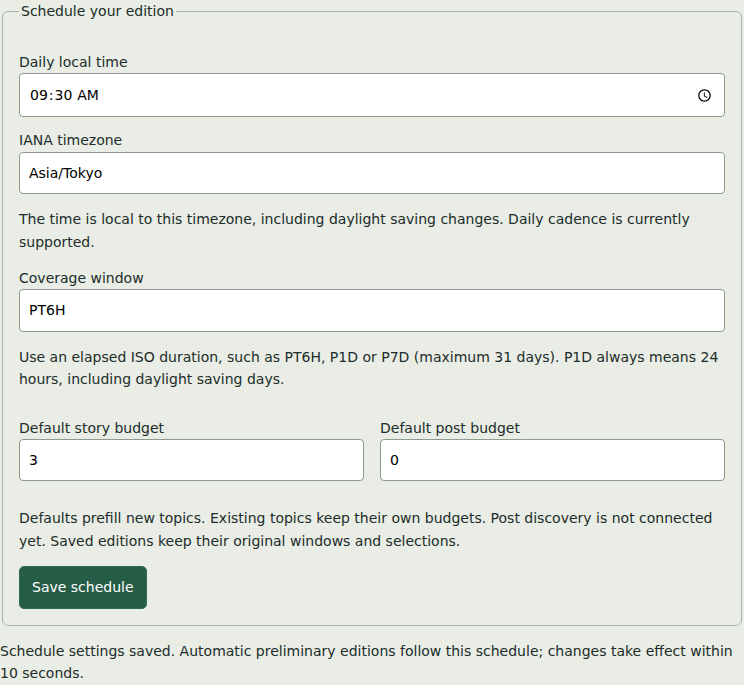
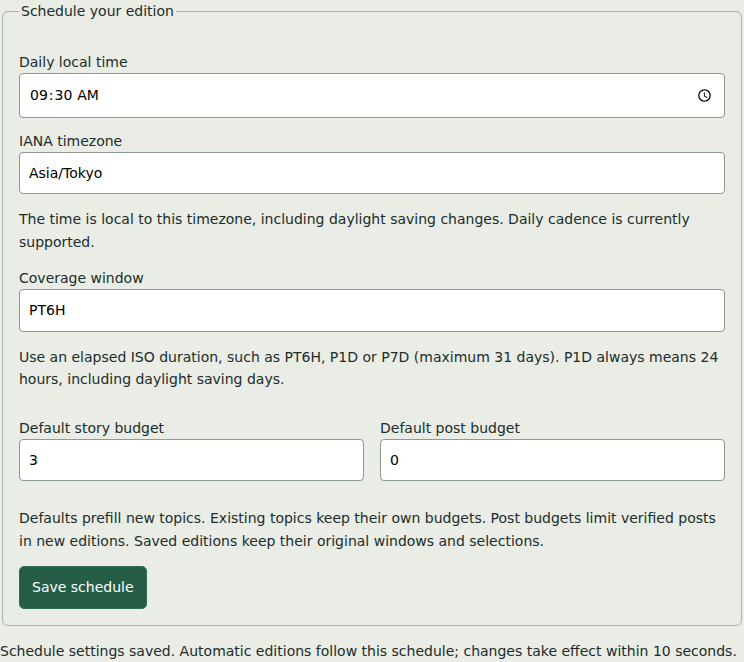
Restore owner schedule and prevent live schedule smoke writes

Changed region(s): [[0.0, 0.0604, 0.9892, 0.997], [0.0309, 0.0, 0.2164, 0.0302], [0.9892, 0.9063, 1.0, 0.9366]]

diff --git a/scripts/smoke-schedule.ts b/scripts/smoke-schedule.ts
@@ -1,14 +1,39 @@
 import assert from 'node:assert/strict';
 
-import { profileSettingsSchema } from '@digest/contracts';
+import { profileSettingsSchema, scheduleSchema } from '@digest/contracts';
 import { chromium } from 'playwright';
 
-import { protectSchedule } from './lib/schedule-recovery';
+import { validateSchedule } from '../apps/api/src/modules/profiles/domain/schedule';
+
 const base = 'http://localhost:8000';
 async function smoke() {
   const browser = await chromium.launch();
   const context = await browser.newContext();
-  const restoreSchedule = await protectSchedule(base);
+  const original = profileSettingsSchema.parse(
+    await (await context.request.get(`${base}/api/profile`)).json(),
+  );
+  const profile = structuredClone(original);
+  // All browser profile reads/writes are replayed in memory, including reloads.
+  await context.route('**/api/profile', (route) =>
+    route.fulfill({ json: profile }),
+  );
+  await context.route('**/api/profile/schedule', async (route) => {
+    const result = scheduleSchema.safeParse(route.request().postDataJSON());
+    if (!result.success) {
+      await route.fulfill({
+        status: 400,
+        json: { message: result.error.issues[0].message },
+      });
+      return;
+    }
+    const valid = validateSchedule(result.data);
+    if (!valid.ok) {
+      await route.fulfill({ status: 400, json: { message: valid.error } });
+      return;
+    }
+    profile.schedule = result.data;
+    await route.fulfill({ json: profile });
+  });
   const topics = await (await context.request.get(`${base}/api/topics`)).json();
   const latest = await (
     await context.request.get(`${base}/api/digest-previews/latest`)
@@ -40,9 +65,7 @@ async function smoke() {
         .getByRole('status')
         .filter({ hasText: 'Schedule settings saved.' })
         .waitFor();
-      const saved = profileSettingsSchema.parse(
-        await (await context.request.get(`${base}/api/profile`)).json(),
-      );
+      const saved = structuredClone(profile);
       assert.deepEqual(saved.schedule, {
         cadence: '30 9 * * *',
         timezone: 'Asia/Tokyo',
@@ -50,28 +73,6 @@ async function smoke() {
         storyBudget: 3,
         postBudget: 0,
       });
-      for (const override of [
-        { timezone: 'Mars/Olympus' },
-        { cadence: '* * * * *' },
-        { coverageWindow: 'P32D' },
-        { coverageWindow: 'P0D' },
-        { storyBudget: 21 },
-        { postBudget: -1 },
-        { extra: true },
-      ]) {
-        assert.equal(
-          (
-            await context.request.put(`${base}/api/profile/schedule`, {
-              data: { ...saved.schedule, ...override },
-            })
-          ).status(),
-          400,
-        );
-        assert.deepEqual(
-          await (await context.request.get(`${base}/api/profile`)).json(),
-          saved,
-        );
-      }
       await page.reload();
       await page.getByText('Schedule settings', { exact: true }).click();
       assert.equal(
@@ -141,10 +142,14 @@ async function smoke() {
         latest,
       );
     console.log(
-      'Schedule desktop/mobile: persistence, validation atomicity, timezone errors, new-topic defaults and immutable history passed',
+      'Schedule desktop/mobile: in-memory save/reload, timezone errors, defaults and immutable history passed; live profile unchanged',
     );
   } finally {
-    await restoreSchedule();
+    assert.deepEqual(
+      await (await context.request.get(`${base}/api/profile`)).json(),
+      original,
+      'Browser replay must never change the live profile',
+    );
     await browser.close();
   }
 }

diff --git a/apps/api/scripts/smoke-scheduled-digests.ts b/apps/api/scripts/smoke-scheduled-digests.ts
@@ -1,96 +1,5 @@
-import assert from 'node:assert/strict';
-
-import { profileSettingsSchema } from '@digest/contracts';
-import { Queue } from 'bullmq';
-
-import { protectSchedule } from '../../../scripts/lib/schedule-recovery';
-import { database } from '../src/libs/db/connections';
-const base = 'http://localhost:8000';
-async function smoke() {
-  const queue = new Queue('digest-generation', {
-    connection: { host: '127.0.0.1', port: 6379 },
-  });
-  const db = database();
-  const profile = profileSettingsSchema.parse(
-    await (await fetch(`${base}/api/profile`)).json(),
-  );
-  const slot = new Date(Math.ceil((Date.now() + 20000) / 60000) * 60000);
-  const cadence = `${slot.getUTCMinutes()} ${slot.getUTCHours()} * * *`;
-  async function save(schedule: typeof profile.schedule) {
-    assert.equal(
-      (
-        await fetch(`${base}/api/profile/schedule`, {
-          method: 'PUT',
-          headers: { 'Content-Type': 'application/json' },
-          body: JSON.stringify(schedule),
-        })
-      ).status,
-      200,
-    );
-  }
-  const restoreSchedule = await protectSchedule(base);
-  try {
-    await save({
-      ...profile.schedule,
-      cadence,
-      timezone: 'UTC',
-      coverageWindow: 'PT6H',
-    });
-    console.log('Waiting for actual scheduled slot', slot.toISOString());
-    let edition;
-    const deadline = slot.getTime() + 30000;
-    while (Date.now() < deadline) {
-      const result = await db.query(
-        'SELECT snapshot FROM digest_previews WHERE scheduled_key=$1',
-        [`${profile.id}:${slot.getTime()}`],
-      );
-      if (result.rows[0]) {
-        edition = result.rows[0].snapshot;
-        break;
-      }
-      await new Promise((resolve) => setTimeout(resolve, 1000));
-    }
-    assert.ok(
-      edition,
-      'Worker must generate the scheduled edition without a manual request',
-    );
-    assert.equal(edition.windowEnd, slot.toISOString());
-    assert.equal(
-      edition.windowStart,
-      new Date(slot.getTime() - 21600000).toISOString(),
-    );
-    assert.ok(
-      edition.topics.some(
-        (topic: { candidateCount: number }) => topic.candidateCount > 0,
-      ),
-    );
-    const jobs = await queue.getCompleted();
-    assert.ok(
-      jobs.some((job) => job.returnvalue?.editionId === edition.id),
-      'Queue retains successful run',
-    );
-    const failed = await queue.getFailed();
-    assert.equal(failed.length, 0);
-    console.log(
-      'Scheduled edition stored from real content; exact 6h slot window and completed queue run verified',
-      edition.id,
-    );
-  } finally {
-    await restoreSchedule();
-    // Ensure the restored schedule reaches Redis before exiting.
-    for (let attempt = 0; attempt < 20; attempt++) {
-      const scheduler = await queue.getJobScheduler(`profile-${profile.id}`);
-      if (
-        scheduler?.pattern === profile.schedule.cadence &&
-        scheduler?.tz === profile.schedule.timezone
-      )
-        break;
-      if (attempt === 19)
-        throw new Error('Original scheduler was not restored');
-      await new Promise((resolve) => setTimeout(resolve, 1000));
-    }
-    await queue.close();
-    await db.end();
-  }
-}
-void smoke();
+// Retired: this probe changed the live schedule and could leave it overwritten.
+// The disposable-service suite covers scheduling and publication without live writes.
+throw new Error(
+  'Live schedule probes are disabled. Run pnpm test for isolated scheduling coverage.',
+);

diff --git a/README.md b/README.md
@@ -128,14 +128,11 @@ Local snapshot/API verification (uses stored real content, no external calls):
 pnpm exec tsx apps/api/scripts/smoke-previews.ts
 ```
 
-Verify automatic generation using stored real content (temporarily schedules the
-next UTC minute with 6h coverage, then restores the original schedule):
-
-```sh
-pnpm exec tsx apps/api/scripts/smoke-scheduled-digests.ts
-```
-
-Run schedule-changing smoke scripts sequentially. The worker must be running.
+Verify scheduling and publication with `pnpm test` (disposable Postgres/Redis,
+no live inference). The former live `smoke-scheduled-digests.ts` probe is disabled.
+`pnpm exec tsx scripts/smoke-schedule.ts` checks desktop/mobile schedule forms
+with intercepted profile requests and in-memory settings, and verifies the live
+profile remains unchanged. API validation is covered by the isolated tests.
 
 Workspace formatting and linting:
 
@@ -269,11 +266,8 @@ fallback reason. Unknown engagement and media contents are never inferred.
 Read-only UI verification can use `POST_EDITORIAL_REPLAY=1` with `smoke-posts.ts`;
 its context is explicitly synthetic and it publishes no edition.
 
-Schedule-changing smoke checks save the original profile schedule exclusively to
-`~/.local/state/news-digest/schedule-recovery.json` before editing it. Normal exit,
-SIGINT and SIGTERM restore and verify the saved schedule. If the VM stops or the
-process receives SIGKILL, the record remains and another probe refuses to start.
-Run `pnpm exec tsx scripts/recover-schedule.ts` once the API is healthy to restore
-that record; failed restoration retains it. Do not run schedule probes concurrently
-or edit the schedule while a probe is active. These probes can publish editions;
-use the isolated suite for routine verification rather than the live scheduler probe.
+Legacy recovery records may remain at
+`~/.local/state/news-digest/schedule-recovery.json`. Inspect any record before
+using `scripts/recover-schedule.ts`: it restores the saved value, which may
+predate the owner's corrected schedule. Routine verification never uses this
+recovery path or writes the live schedule.

diff --git a/PROGRESS.md b/PROGRESS.md
@@ -167,3 +167,13 @@ Earlier iterations 141–142: [archive](docs/progress-archive/2026-11-02-iterati
 - Restarted API/worker; `/healthz` healthy; 32 sources, 1,451 stored source items, no source errors, zero failed digest jobs. Latest stored edition remains four topics.
 - README/TASKS updated; archived iterations 141–142 to keep PROGRESS small. No source/UI changes; docs/SOURCES unchanged.
 - Next: live/cache-backed provider latency evidence within verification budget; item 7 remains open. Avoid treating fake timings as live targets; Reddit follows item 7.
+
+## 2026-11-02: iteration 166 — restore owner schedule and stop live smoke writes
+
+- Started clean on main; API/worker/health healthy, 32 sources without errors, no failed digest jobs; two historical ingestion failures retained.
+- Triage found the reported wrong live schedule still active: 20:40 UTC/PT6H. Restored 07:00 America/Los_Angeles/P1D through API, preserving both budgets at five; Redis next slot now 2026-11-02T15:00Z.
+- Schedule UI smoke now intercepts profile reads/writes in memory, checks reload/defaults/timezone errors, and asserts live profile unchanged. Updated desktop/mobile screenshots are replay settings, not live schedule evidence.
+- Disabled the obsolete live scheduler probe with an explicit failure directing callers to isolated scheduling tests. Legacy recovery remains manual only; README explains the distinction.
+- Initial replay needed domain timezone validation; corrected. `pnpm exec tsx scripts/smoke-schedule.ts` passed desktop/mobile with unchanged live profile.
+- `pnpm format`, `pnpm lint:fix`, `pnpm check` and `pnpm build` pass (164 tests); services restarted and health/schedule/source/edition endpoints checked.
+- No live inference calls/spend or source changes; docs/SOURCES unchanged. Item 7 live latency still unverified; next use budget-safe evidence before Reddit.

diff --git a/TASKS.md b/TASKS.md
@@ -21,7 +21,7 @@ Fix regressions, broken services and stalled sources before starting new work.
 - [ ] STEERING 8, next: curated editable Reddit communities, public rate-limited JSON/RSS ingestion, social storage/cards and X citation extraction; real posts across four topics. Respect access denial; no bypass.
 - [ ] STEERING 9, after Reddit: schedule capped direct xAI discovery before digest; report daily spend and verified yield for first week. This supersedes older notes to leave paid scheduling off once prerequisites are met.
 - [ ] STEERING 10: per-topic source and verified-item/post coverage on Status; measure weakest topic before adding sources.
-- [ ] STEERING 11: restore 07:00 America/Los_Angeles daily P1D schedule; isolate all schedule-changing verification from live settings.
+- [x] STEERING 11: restored 07:00 America/Los_Angeles daily P1D; browser smoke uses intercepted in-memory profile, retired live scheduler probe; scheduling tests use disposable services (iteration 166).
 - [ ] STEERING 4 (lower priority): fingerprinted recorded/fake LlmPort responses; no live test calls; explicit opt-in development calls <=$0.05/iteration, tagged verification. Use recordings/cache for ranking replay.
 
 Completed milestone detail: [archive](docs/progress-archive/2026-11-02-tasks-through-143.md).

diff --git a/STEERING.md b/STEERING.md
@@ -346,6 +346,8 @@ an interrupted smoke test overwrote it.
 - Make sure smoke tests and verification can never write to the live
   schedule again (use the isolated verification database).
 
+ack: 2026-11-02 item 11 — iteration 166 restored daily 07:00 America/Los_Angeles P1D, preserved story/post budgets, replaced browser schedule writes with in-memory replay, and disabled the live scheduler probe; disposable-service scheduling tests remain.
+
 ## Housekeeping
 
 Append `ack:` lines under items 5 and 6 (and each new item as you finish it),
